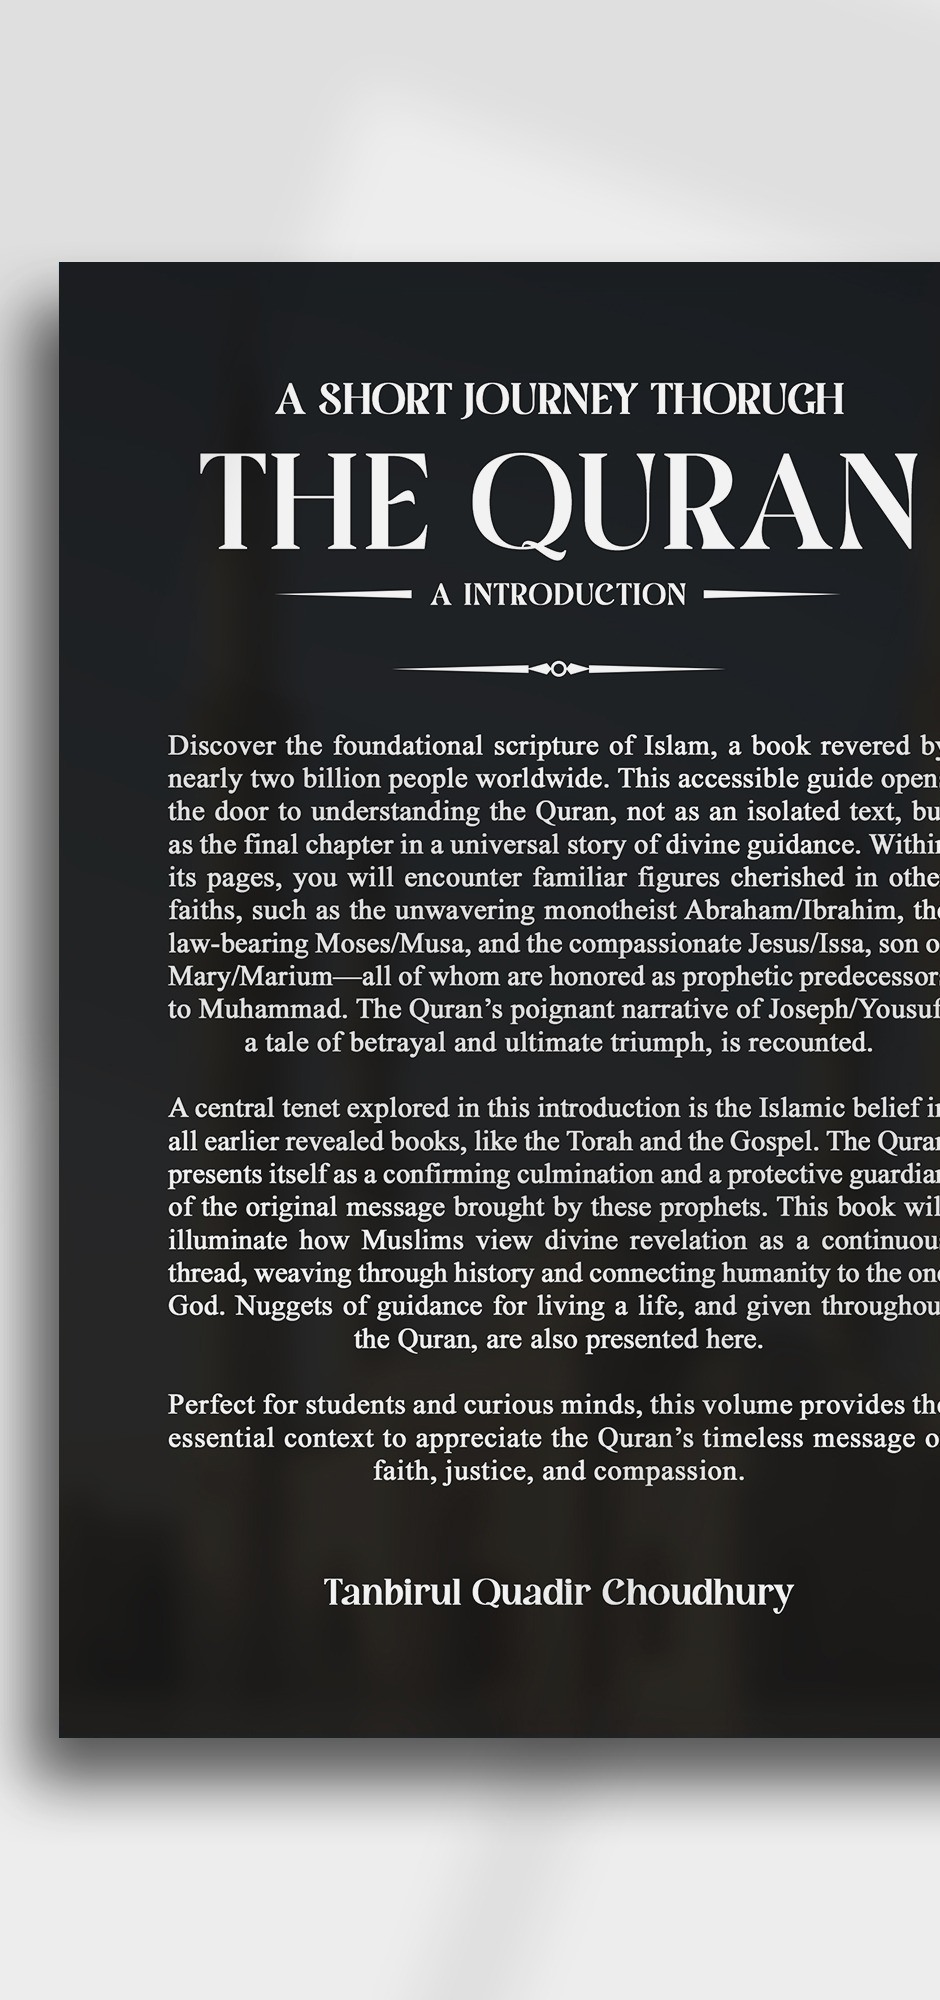
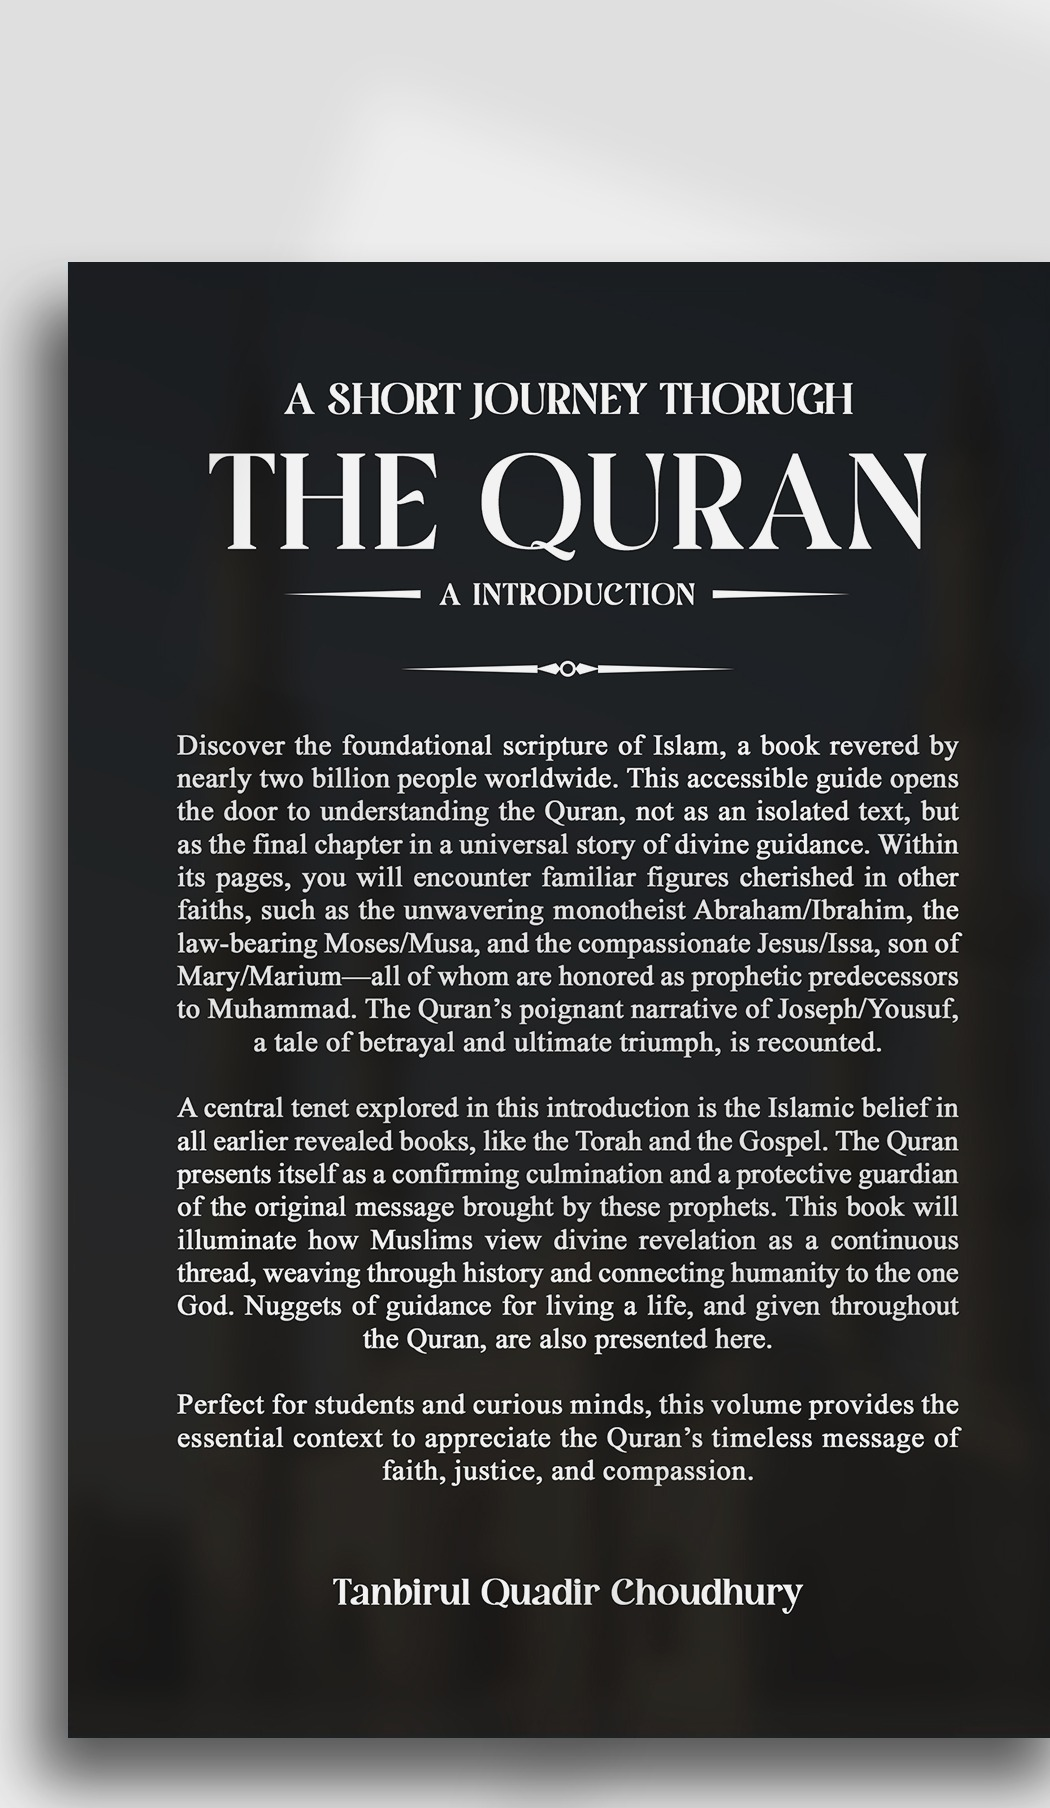
Comprehensive fix: images, spacing, grids
ISSUE 1 - Book covers re-cropped:
- Front: x=1643-2690, trimmed bottom (1047x1808, no spine/bleed)
- Back: x=251-1301, same vertical trim (1050x1808)
- OG image regenerated on cream background

ISSUE 2 - Back cover: max-width 420px, width 100%

ISSUE 3 - Spacing reduced across ALL pages:
- Hero: min-h-[70vh] (was 85vh)
- Sections: py-8 sm:py-10 (was py-14)
- Inner margins reduced (mt-8→mt-6, mt-10→mt-8)

ISSUE 4 - Key Highlights: grid-cols-2 always (was single col on mobile)
- Compact cards: p-4 sm:p-6 (was p-8)
- Smaller icons/text on mobile

ISSUE 5 - Where to Buy: grid-cols-2 always (was single col on mobile)
- Compact cards: p-4 sm:p-6 (was p-8)

diff --git a/src/app/page.tsx b/src/app/page.tsx
@@ -5,7 +5,7 @@ export default function Home() {
   return (
     <>
       {/* Hero Section */}
-      <section className="relative flex min-h-[85vh] items-center overflow-hidden">
+      <section className="relative flex min-h-[70vh] items-center overflow-hidden">
         {/* Background layers */}
         <div className="absolute inset-0 bg-gradient-to-b from-[#FAF8F5] via-[#F5F0E8] to-[#EDE8E0]" />
         <div className="geometric-pattern absolute inset-0 opacity-60" />
@@ -98,9 +98,9 @@ export default function Home() {
       </section>
 
       {/* Book Blurb Section */}
-      <section className="relative py-14">
+      <section className="relative py-8 sm:py-10">
         <div className="mx-auto max-w-4xl px-4 sm:px-6 lg:px-8">
-          <div className="section-divider mb-10" />
+          <div className="section-divider mb-6" />
           <div className="animate-fade-in-up text-center">
             <h2 className="font-heading text-3xl font-bold text-[#8B1A2B] sm:text-4xl">
               About This Book
@@ -129,7 +129,7 @@ export default function Home() {
       </section>
 
       {/* Back Cover / Detailed Description */}
-      <section className="relative bg-[#EDE8E0] py-14">
+      <section className="relative bg-[#EDE8E0] py-8 sm:py-10">
         <div className="geometric-pattern absolute inset-0 opacity-40" />
         <div className="relative mx-auto max-w-6xl px-4 sm:px-6 lg:px-8">
           <div className="grid items-center gap-12 lg:grid-cols-2">
@@ -140,7 +140,7 @@ export default function Home() {
                 width={480}
                 height={800}
                 className="book-cover-clean mx-auto"
-                style={{ width: "auto", height: "auto", maxWidth: "480px" }}
+                style={{ width: "100%", height: "auto", maxWidth: "420px" }}
               />
             </div>
             <div className="animate-slide-in-right space-y-6">
@@ -169,7 +169,7 @@ export default function Home() {
       </section>
 
       {/* Key Highlights */}
-      <section className="py-14">
+      <section className="py-8 sm:py-10">
         <div className="mx-auto max-w-7xl px-4 sm:px-6 lg:px-8">
           <div className="animate-fade-in-up text-center">
             <h2 className="font-heading text-3xl font-bold text-[#8B1A2B] sm:text-4xl">
@@ -181,20 +181,20 @@ export default function Home() {
             </p>
           </div>
 
-          <div className="mt-10 grid gap-6 sm:grid-cols-2 lg:grid-cols-3">
+          <div className="mt-8 grid grid-cols-2 gap-3 sm:gap-4 lg:grid-cols-3">
             {highlights.map((item, i) => (
               <div
                 key={item.title}
-                className={`animate-fade-in-up delay-${(i + 1) * 100} warm-card group p-8`}
+                className={`animate-fade-in-up delay-${(i + 1) * 100} warm-card group p-4 sm:p-6`}
               >
-                <div className="flex h-14 w-14 items-center justify-center rounded-lg bg-[#8B1A2B]/10 text-2xl transition-colors group-hover:bg-[#8B1A2B]/15">
+                <div className="flex h-10 w-10 sm:h-14 sm:w-14 items-center justify-center rounded-lg bg-[#8B1A2B]/10 text-2xl transition-colors group-hover:bg-[#8B1A2B]/15">
                   {item.icon}
                 </div>
-                <h3 className="mt-5 font-heading text-xl font-bold text-[#2C2420]">
+                <h3 className="mt-3 sm:mt-5 font-heading text-base sm:text-xl font-bold text-[#2C2420]">
                   {item.title}
                 </h3>
                 <div className="mt-2 h-0.5 w-8 rounded bg-[#C9A84C]/40" />
-                <p className="mt-3 font-body text-sm leading-relaxed text-[#6B5E56]">
+                <p className="mt-2 sm:mt-3 font-body text-xs sm:text-sm leading-relaxed text-[#6B5E56]">
                   {item.description}
                 </p>
               </div>
@@ -204,7 +204,7 @@ export default function Home() {
       </section>
 
       {/* Where to Buy */}
-      <section id="where-to-buy" className="bg-[#EDE8E0] py-14">
+      <section id="where-to-buy" className="bg-[#EDE8E0] py-8 sm:py-10">
         <div className="mx-auto max-w-5xl px-4 sm:px-6 lg:px-8">
           <div className="animate-fade-in-up text-center">
             <h2 className="font-heading text-3xl font-bold text-[#1B2A4A] sm:text-4xl">
@@ -216,16 +216,16 @@ export default function Home() {
             </p>
           </div>
 
-          <div className="mt-10 grid gap-6 sm:grid-cols-2 lg:grid-cols-4">
+          <div className="mt-8 grid grid-cols-2 gap-3 lg:grid-cols-4">
             {retailers.map((retailer, i) => (
               <a
                 key={retailer.name}
                 href={retailer.url}
                 target="_blank"
                 rel="noopener noreferrer"
-                className={`animate-fade-in-up delay-${(i + 1) * 100} warm-card group flex flex-col items-center p-8 text-center`}
+                className={`animate-fade-in-up delay-${(i + 1) * 100} warm-card group flex flex-col items-center p-4 sm:p-6 text-center`}
               >
-                <div className="flex h-16 w-16 items-center justify-center rounded-full bg-[#8B1A2B]/10 text-3xl transition-colors group-hover:bg-[#8B1A2B]/15">
+                <div className="flex h-12 w-12 sm:h-16 sm:w-16 items-center justify-center rounded-full bg-[#8B1A2B]/10 text-3xl transition-colors group-hover:bg-[#8B1A2B]/15">
                   {retailer.icon}
                 </div>
                 <h3 className="mt-4 font-heading text-lg font-bold text-[#2C2420]">
@@ -242,7 +242,7 @@ export default function Home() {
       </section>
 
       {/* Book Details */}
-      <section className="py-14">
+      <section className="py-8 sm:py-10">
         <div className="mx-auto max-w-4xl px-4 sm:px-6 lg:px-8">
           <div className="animate-fade-in-up text-center">
             <h2 className="font-heading text-3xl font-bold text-[#8B1A2B] sm:text-4xl">
@@ -274,7 +274,7 @@ export default function Home() {
       </section>
 
       {/* Final CTA */}
-      <section className="relative overflow-hidden py-14">
+      <section className="relative overflow-hidden py-8 sm:py-10">
         <div className="absolute inset-0 bg-gradient-to-b from-[#EDE8E0] via-[#F5F0E8] to-[#FAF8F5]" />
         <div className="geometric-pattern absolute inset-0 opacity-40" />
         <div className="relative mx-auto max-w-3xl px-4 text-center sm:px-6 lg:px-8">

diff --git a/src/app/contents/page.tsx b/src/app/contents/page.tsx
@@ -113,7 +113,7 @@ export default function ContentsPage() {
   return (
     <>
       {/* Header */}
-      <section className="relative overflow-hidden bg-gradient-to-b from-[#FAF8F5] via-[#F5F0E8] to-[#FAF8F5] py-14">
+      <section className="relative overflow-hidden bg-gradient-to-b from-[#FAF8F5] via-[#F5F0E8] to-[#FAF8F5] py-8 sm:py-10">
         <div className="geometric-pattern absolute inset-0 opacity-40" />
         <div className="relative mx-auto max-w-4xl px-4 text-center sm:px-6 lg:px-8">
           <h1 className="animate-fade-in-up font-heading text-4xl font-bold text-[#8B1A2B] sm:text-5xl">

diff --git a/src/app/about/page.tsx b/src/app/about/page.tsx
@@ -12,7 +12,7 @@ export default function AboutPage() {
   return (
     <div className="bg-cream">
       {/* Header */}
-      <section className="relative overflow-hidden py-14">
+      <section className="relative overflow-hidden py-8 sm:py-10">
         <div className="geometric-pattern absolute inset-0 opacity-20" />
         <div className="absolute inset-0 bg-gradient-to-b from-cream via-transparent to-cream" />
         <div className="relative mx-auto max-w-4xl px-4 text-center sm:px-6 lg:px-8">

diff --git a/src/app/contact/page.tsx b/src/app/contact/page.tsx
@@ -77,7 +77,7 @@ export default function ContactPage() {
       )}
 
       {/* Header */}
-      <section className="relative overflow-hidden py-14">
+      <section className="relative overflow-hidden py-8 sm:py-10">
         <div className="geometric-pattern absolute inset-0 opacity-20" />
         <div className="absolute inset-0 bg-gradient-to-b from-cream via-transparent to-cream" />
         <div className="relative mx-auto max-w-4xl px-4 text-center sm:px-6 lg:px-8">

diff --git a/src/app/globals.css b/src/app/globals.css
@@ -82,8 +82,8 @@ body::before {
 
 /* Book cover image — just shadow, nothing else */
 .book-cover-clean {
+  border-radius: 6px;
   filter: drop-shadow(0 8px 24px rgba(0, 0, 0, 0.15));
-  border-radius: 4px;
   transition: transform 0.3s, filter 0.3s;
 }
 .book-cover-clean:hover {
